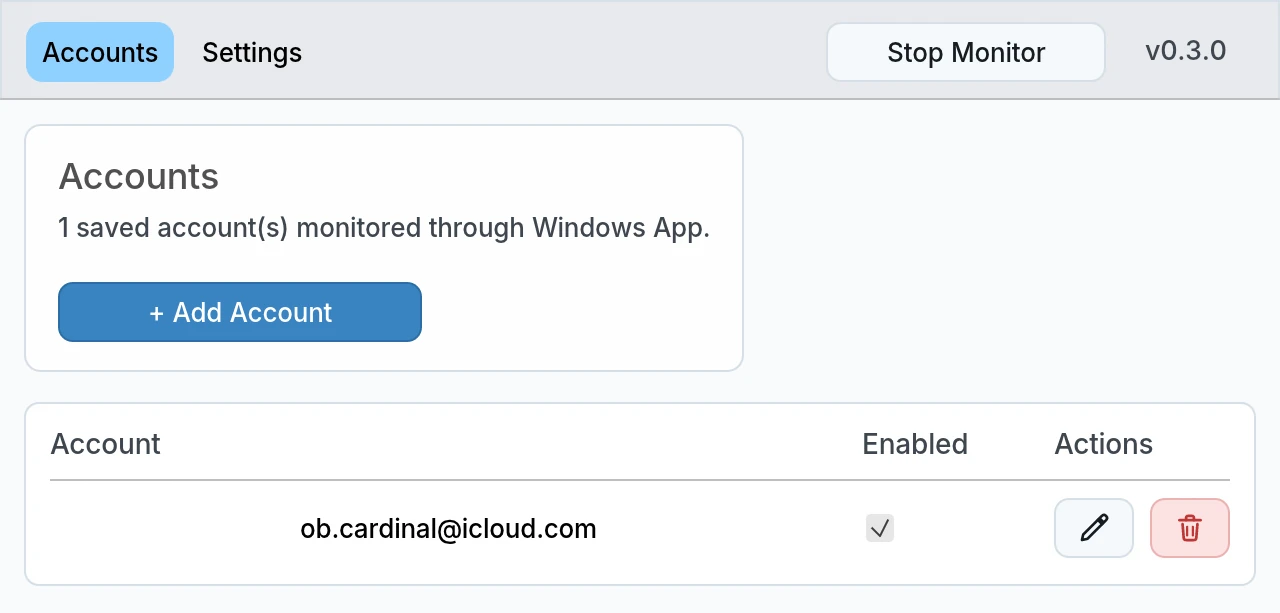
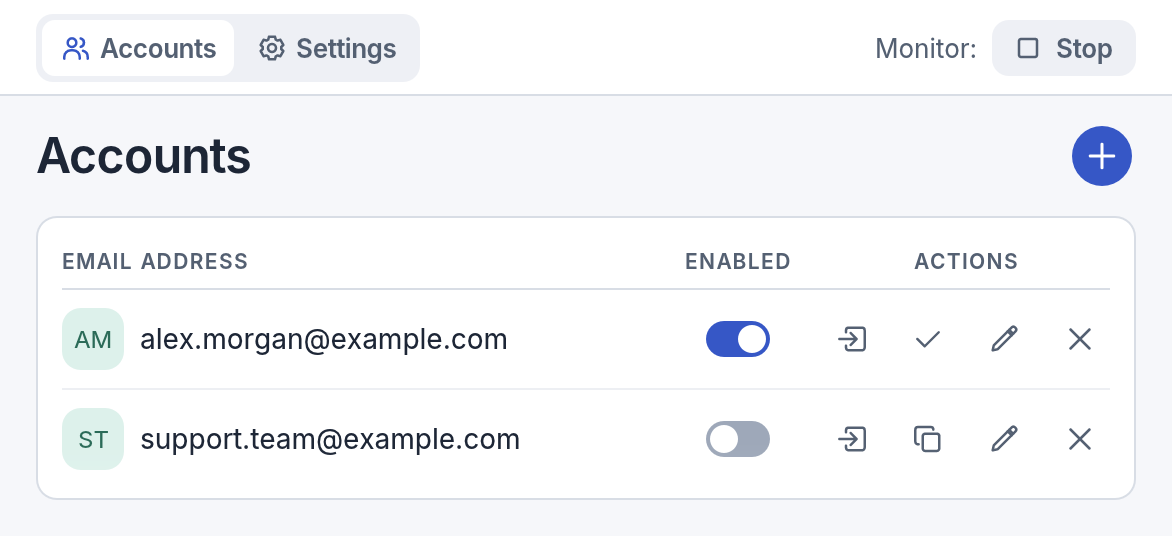
Show the updated Accounts window in the README

diff --git a/README.md b/README.md
@@ -2,6 +2,8 @@
 
 Windows App AutoLogin fills the password prompt when you reconnect to a work desktop in Microsoft Windows App. It runs in the macOS menu bar or Windows system tray. You choose which accounts it can use and can pause autofill with **Stop Monitor**.
 
+<img src="docs/images/accounts-screen.webp" width="586" alt="Accounts window with two example accounts. A checkmark shows which email was just copied.">
+
 ## How your password is protected
 
 ### Where passwords are stored
